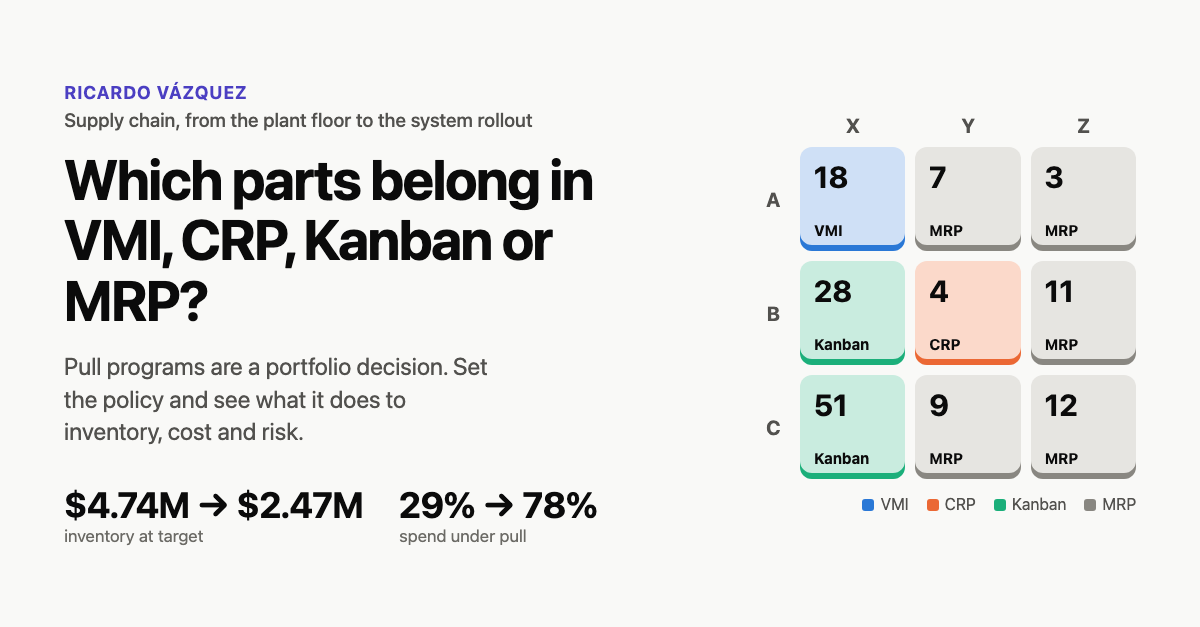
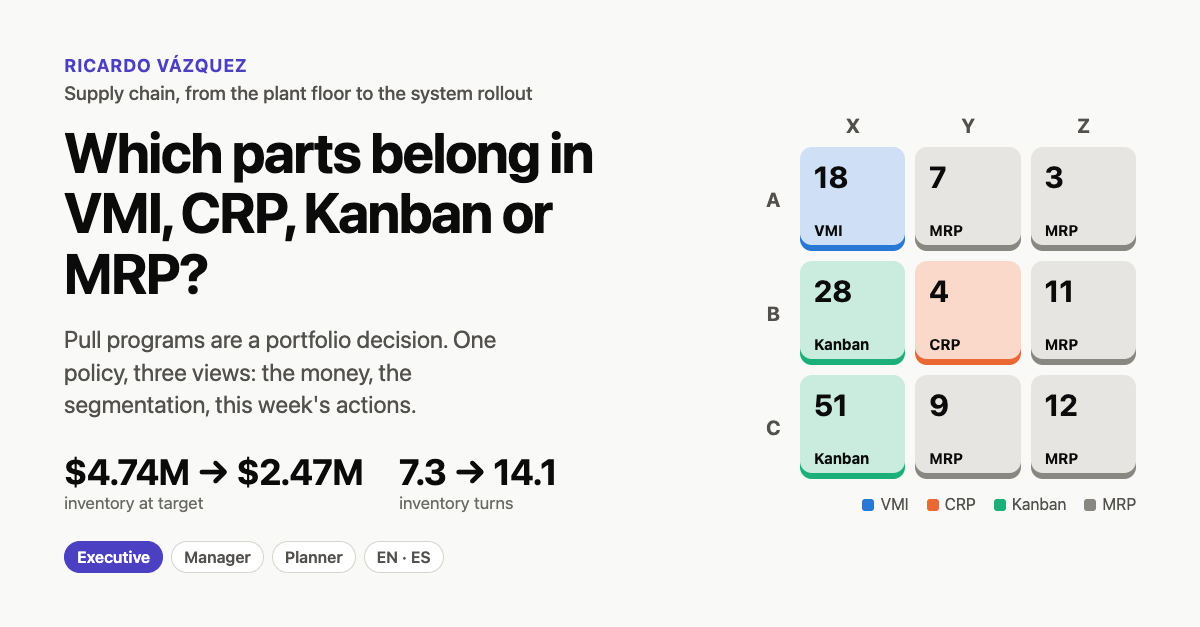
Refresh og-image: role layers, turns, EN/ES

Changed region(s): [[0.0308, 0.0909, 0.4933, 0.9394]]

diff --git a/assets/og-card.html b/assets/og-card.html
@@ -10,12 +10,12 @@
 <style>
   * { box-sizing: border-box; margin: 0; }
   html, body { width: 1200px; height: 627px; overflow: hidden; }
-  body { background: #f9f9f7; color: #0b0b0b; font-family: system-ui, -apple-system, "Segoe UI", sans-serif; padding: 56px 64px; display: grid; grid-template-columns: 1fr 380px; gap: 56px; align-items: center; }
+  body { background: #f9f9f7; color: #0b0b0b; font-family: system-ui, -apple-system, "Segoe UI", sans-serif; padding: 48px 64px; display: grid; grid-template-columns: 1fr 380px; gap: 56px; align-items: center; }
   .maker { color: #4b3fc2; font-size: 18px; font-weight: 700; letter-spacing: 0.05em; text-transform: uppercase; line-height: 1.35; }
   .maker-sub { color: #52514e; font-size: 19px; font-weight: 500; margin-top: 4px; }
   h1 { font-size: 56px; line-height: 1.08; letter-spacing: -0.025em; margin-top: 18px; }
   .lede { font-size: 24px; line-height: 1.35; color: #52514e; margin-top: 20px; max-width: 30ch; }
-  .stats { display: flex; gap: 36px; margin-top: 36px; }
+  .stats { display: flex; gap: 36px; margin-top: 30px; }
   .stat b { display: block; font-size: 36px; letter-spacing: -0.02em; }
   .stat span { font-size: 17px; color: #6b6a65; }
   .matrix { display: grid; grid-template-columns: 34px repeat(3, 1fr); gap: 10px; }
@@ -27,6 +27,9 @@
   .crp { background: #fbd9ca; box-shadow: inset 0 -6px 0 #eb6834; }
   .kan { background: #c9ecdf; box-shadow: inset 0 -6px 0 #1baf7a; }
   .mrp { background: #e6e5e1; box-shadow: inset 0 -6px 0 #898781; }
+  .roles { display: flex; gap: 8px; margin-top: 28px; }
+  .roles span { font-size: 16px; font-weight: 600; padding: 6px 12px; border-radius: 999px; border: 1px solid #d6d4cc; color: #52514e; background: #fff; }
+  .roles span.on { background: #4b3fc2; border-color: #4b3fc2; color: #fff; }
   .legend { display: flex; gap: 18px; margin-top: 16px; font-size: 16px; color: #52514e; justify-content: flex-end; }
   .legend i { display: inline-block; width: 12px; height: 12px; border-radius: 3px; margin-right: 6px; vertical-align: -1px; }
 </style>
@@ -36,11 +39,12 @@
     <p class="maker">Ricardo Vázquez</p>
     <p class="maker-sub">Supply chain, from the plant floor to the system rollout</p>
     <h1>Which parts belong in VMI, CRP, Kanban or MRP?</h1>
-    <p class="lede">Pull programs are a portfolio decision. Set the policy and see what it does to inventory, cost and risk.</p>
+    <p class="lede">Pull programs are a portfolio decision. One policy, three views: the money, the segmentation, this week's actions.</p>
     <div class="stats">
       <div class="stat"><b>$4.74M → $2.47M</b><span>inventory at target</span></div>
-      <div class="stat"><b>29% → 78%</b><span>spend under pull</span></div>
+      <div class="stat"><b>7.3 → 14.1</b><span>inventory turns</span></div>
     </div>
+    <div class="roles"><span class="on">Executive</span><span>Manager</span><span>Planner</span><span>EN · ES</span></div>
   </div>
   <div>
     <div class="matrix">
